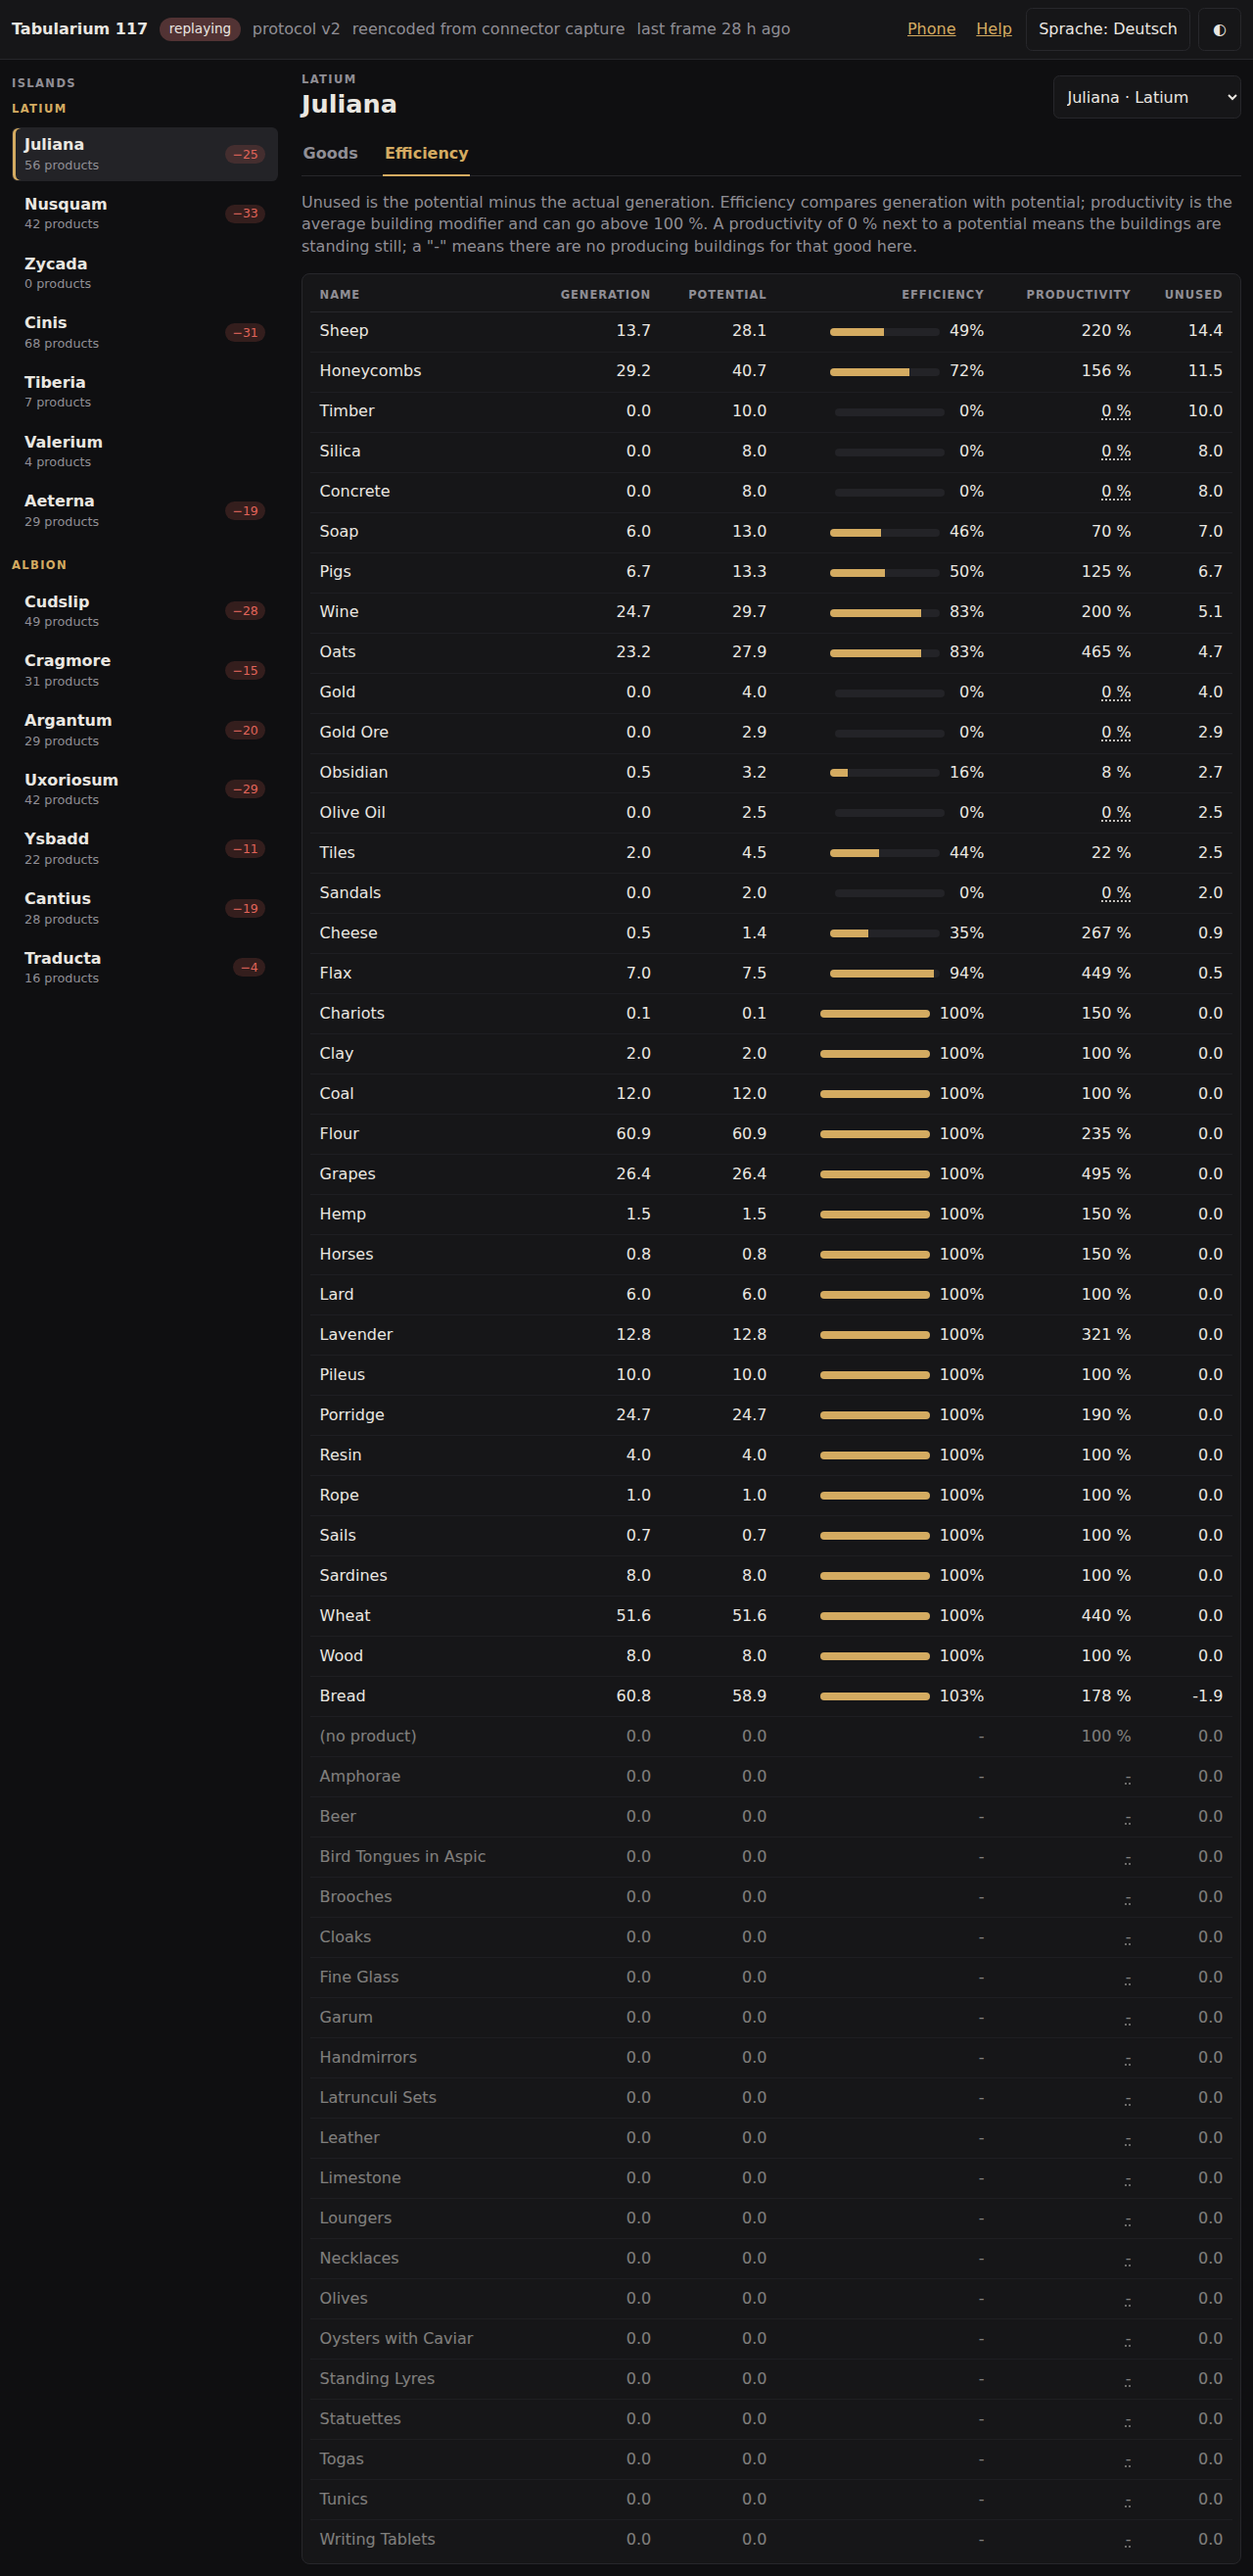
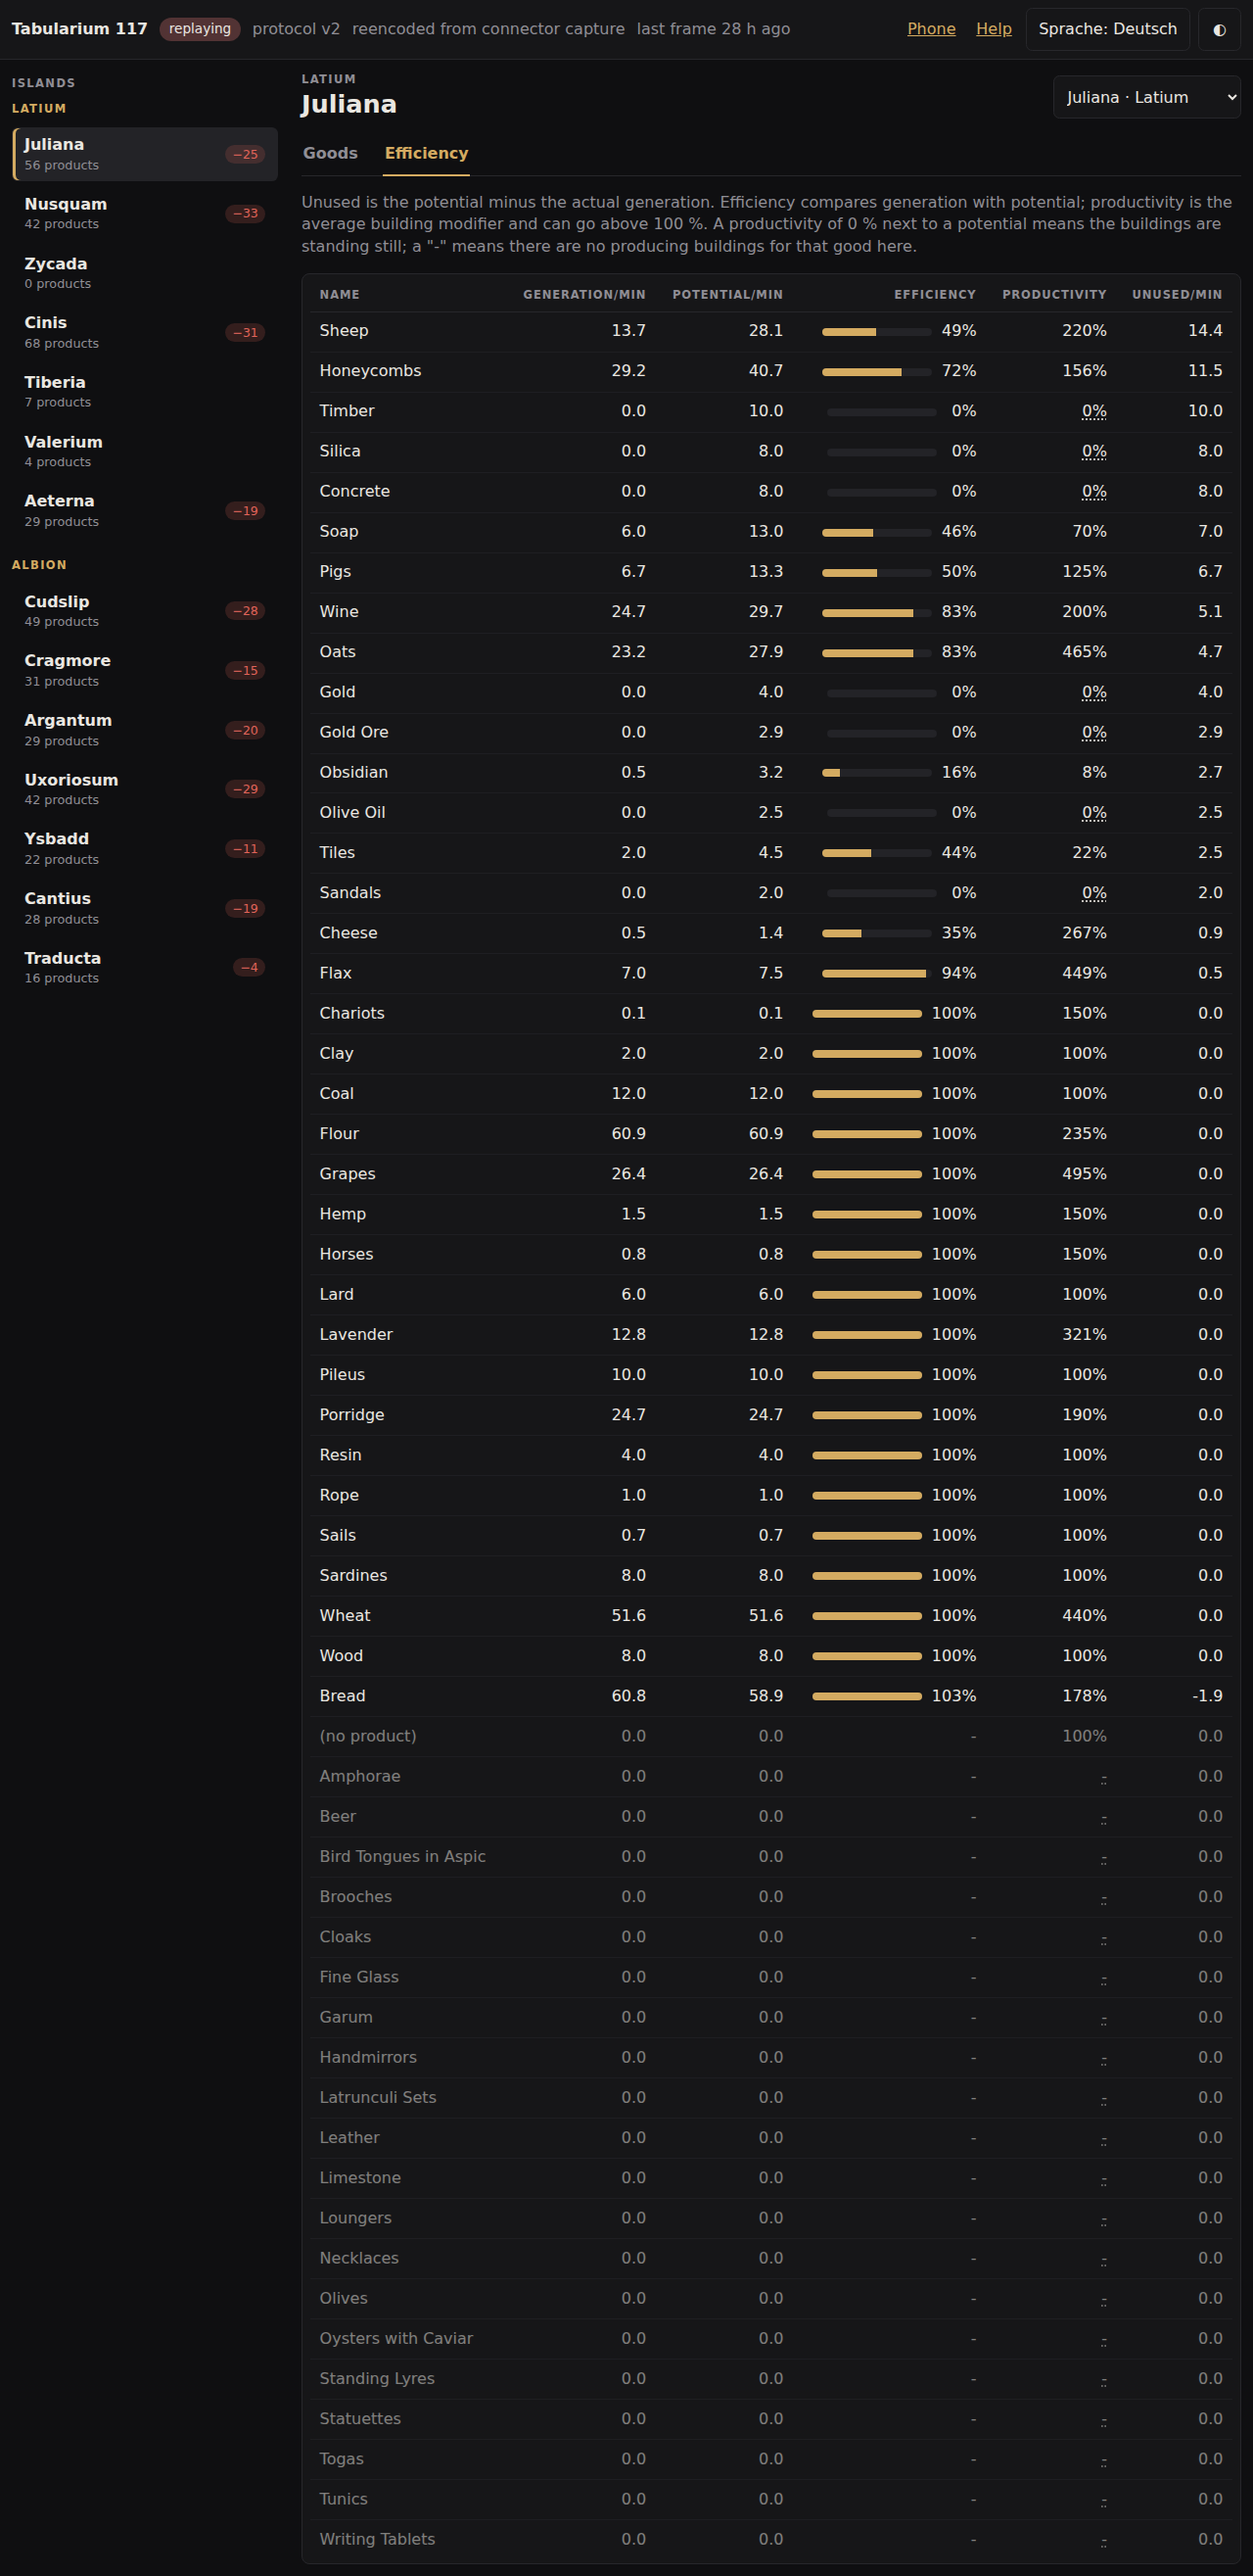
Label the rates per minute, and format both percentages the same way
The owner confirms what the captures never stated: generation, consumption,
delta and their perfect counterparts are per-minute rates, the unit the
game's own figures use. The columns say so now, and docs/protocol.md records
it as [inferred] rather than leaving the unit unwritten.

While there: productivity was assembled by hand as "220 %" while efficiency
went through Intl's percent style, which in English writes "49%". Two
percentages in one table disagreeing about their own spacing. Both use the
formatter now; German keeps its space, English loses the one it never wanted.

The README screenshots are re-rendered from this build.

Claude-Session: https://claude.ai/code/session_01U8Baf324omewFccrR5WmAC

diff --git a/web/js/views/efficiency.js b/web/js/views/efficiency.js
@@ -73,10 +73,11 @@ export async function renderEfficiency(container, islandId, store) {
     const fmt1 = new Intl.NumberFormat(locale(), { minimumFractionDigits: 1, maximumFractionDigits: 1 });
     const pct = new Intl.NumberFormat(locale(), { style: "percent", maximumFractionDigits: 0 });
     // avgProductivity arrives already in percent (SummedProductivity /
-    // AmountOfBuildings x 100, KONZEPT.md section 12), so it is formatted as
-    // a plain number with a percent sign, not through a percent formatter
-    // that would multiply it again.
-    const fmt0 = new Intl.NumberFormat(locale(), { maximumFractionDigits: 0 });
+    // AmountOfBuildings x 100, KONZEPT.md section 12), so it goes back to a
+    // ratio before it is formatted. Writing the sign by hand instead put a
+    // space in front of it in English, where the two percentages in this
+    // table then disagreed with each other ("49%" beside "220 %").
+    const percent = (valueInPercent) => pct.format(valueInPercent / 100);
 
     // The server already sorts by wasted desc; products with efficiency ==
     // null (perfectGeneration 0) have wasted 0 or negative and are moved to
@@ -137,9 +138,9 @@ export async function renderEfficiency(container, islandId, store) {
       if (p.perfectGeneration === 0 && p.avgProductivity === 0) {
         productivityTd.append(hint("-", i18n.t("productivityNoBuildingsHint")));
       } else if (p.generation === 0 && p.perfectGeneration > 0) {
-        productivityTd.append(hint(`${fmt0.format(p.avgProductivity)} %`, i18n.t("productivityIdleHint")));
+        productivityTd.append(hint(percent(p.avgProductivity), i18n.t("productivityIdleHint")));
       } else {
-        productivityTd.textContent = `${fmt0.format(p.avgProductivity)} %`;
+        productivityTd.textContent = percent(p.avgProductivity);
       }
 
       const wastedTd = document.createElement("td");

diff --git a/web/js/i18n.js b/web/js/i18n.js
@@ -21,9 +21,9 @@ const dictionaries = {
     islandsHeading: "Islands",
     searchPlaceholder: "Search products…",
     colName: "Name",
-    colGeneration: "Generation",
-    colConsumption: "Consumption",
-    colDelta: "Delta",
+    colGeneration: "Generation/min",
+    colConsumption: "Consumption/min",
+    colDelta: "Delta/min",
     colBuildings: "Buildings",
     products: "products",
     deficits: "deficits",
@@ -54,8 +54,8 @@ const dictionaries = {
       + "so there is nothing to compare against.",
     colEfficiency: "Efficiency",
     colProductivity: "Productivity",
-    colWasted: "Unused",
-    colPerfect: "Potential",
+    colWasted: "Unused/min",
+    colPerfect: "Potential/min",
     tabProducts: "Goods",
     islandSwitch: "Switch island",
     noEfficiencyData: "No production data yet.",
@@ -145,9 +145,9 @@ const dictionaries = {
     islandsHeading: "Inseln",
     searchPlaceholder: "Waren suchen…",
     colName: "Name",
-    colGeneration: "Produktion",
-    colConsumption: "Verbrauch",
-    colDelta: "Delta",
+    colGeneration: "Produktion/min",
+    colConsumption: "Verbrauch/min",
+    colDelta: "Delta/min",
     colBuildings: "Gebäude",
     products: "Waren",
     deficits: "Defizite",
@@ -180,8 +180,8 @@ const dictionaries = {
       + "es gibt also nichts zu vergleichen.",
     colEfficiency: "Effizienz",
     colProductivity: "Produktivität",
-    colWasted: "Ungenutzt",
-    colPerfect: "Potenzial",
+    colWasted: "Ungenutzt/min",
+    colPerfect: "Potenzial/min",
     tabProducts: "Waren",
     islandSwitch: "Insel wechseln",
     noEfficiencyData: "Noch keine Produktionsdaten.",

diff --git a/docs/protocol.md b/docs/protocol.md
@@ -250,6 +250,10 @@ game paused, minimised, maximised; main menu; save reloaded; stop.
   percent (range 0–270 % live, boosts included). **[live]** The connector
   capture's odd values (e.g. Summed 27.87 with 6 buildings, Average 464.6)
   fit the same formula (27.87 / 6 × 100 = 464.5). **[capture]**
+- **Units:** `ProductGeneration`, `ProductConsumption`, `ProductDelta` and
+  their perfect counterparts are rates per minute, which is the unit the
+  game's own production figures use. The UI labels those columns `/min`.
+  **[inferred]**
 - **Efficiency** as `Generation / PerfectGeneration` ranges 0–1.5 live
   (boosts push it above 1). **[live]**
 - **Entries:** 236 per tick, 0–75 per island; 103 product GUIDs (all but `0`
